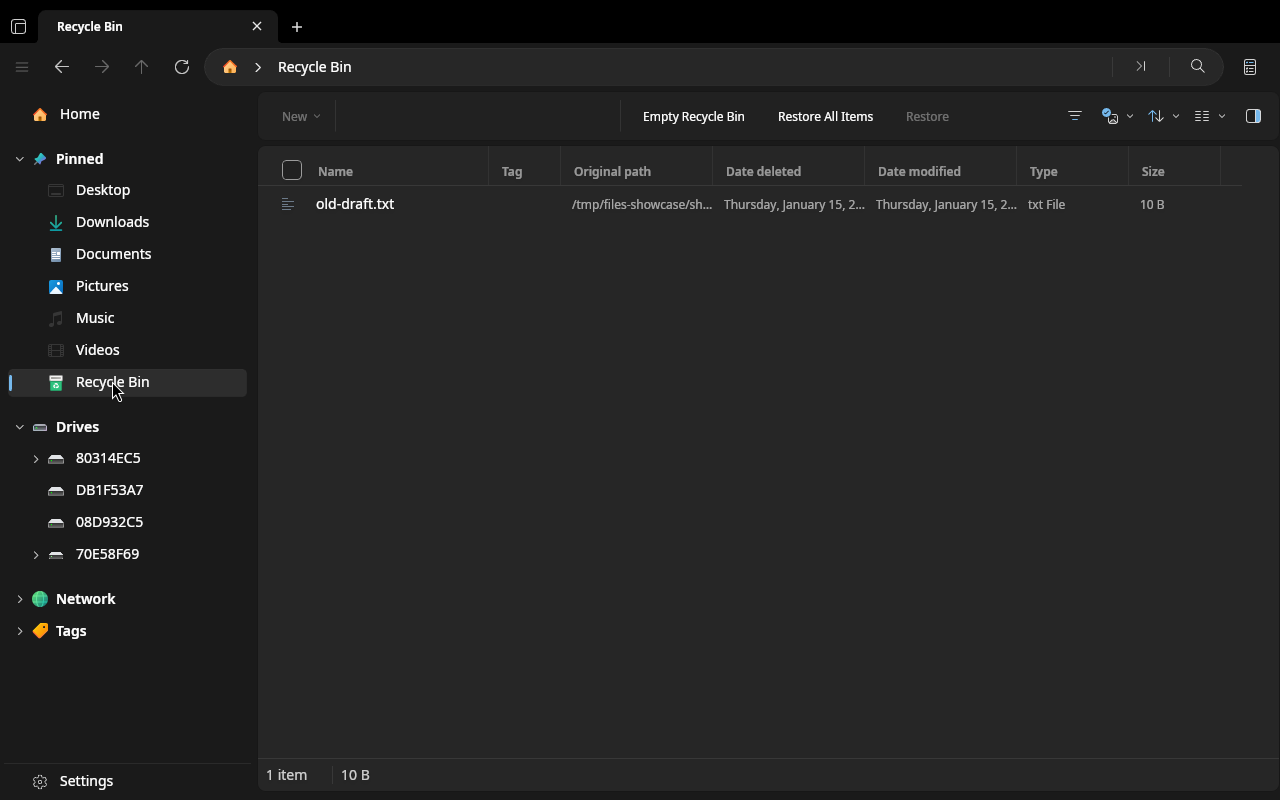
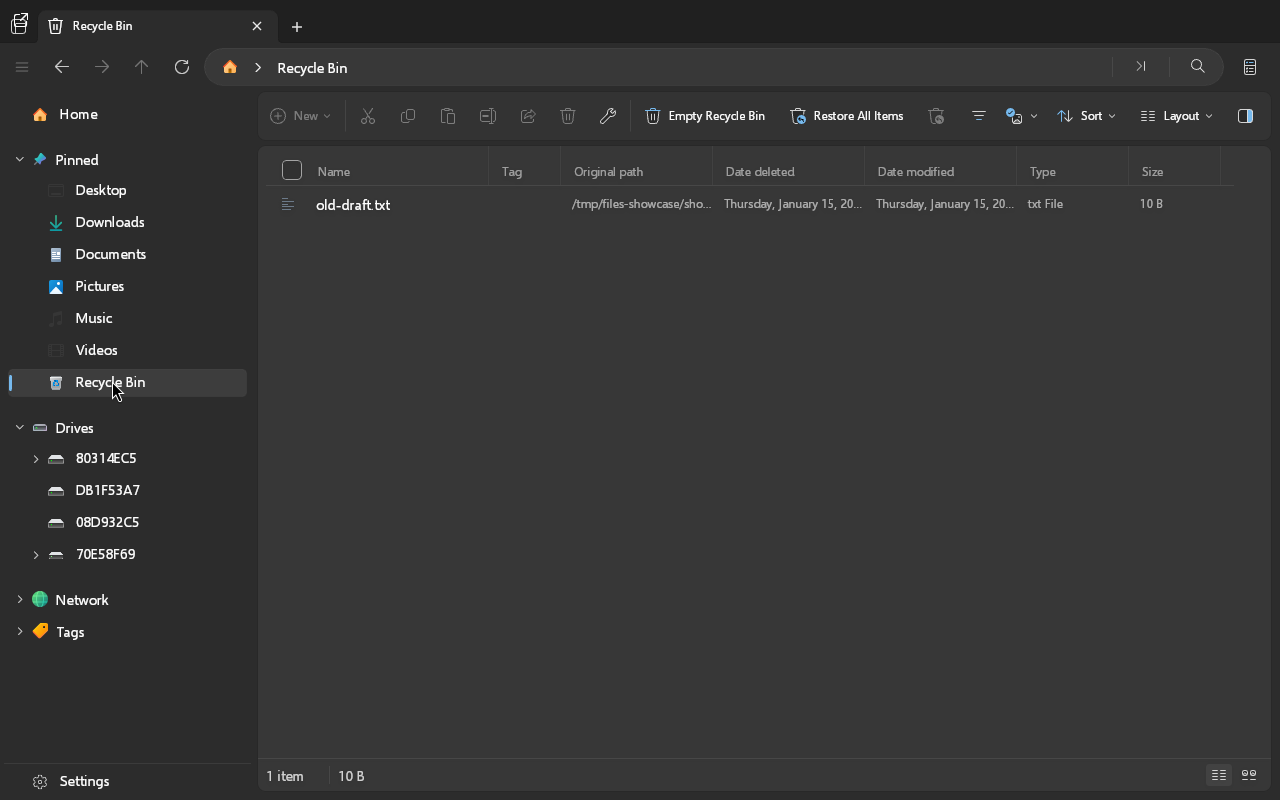
Refresh showcase screenshots and feature list
Claude-Session: https://claude.ai/code/session_01LeKXJc3DnK3PzAqwgA72NY

diff --git a/docs/linux-port/SHOWCASE.md b/docs/linux-port/SHOWCASE.md
@@ -5,7 +5,7 @@ home directory with synthetic drives (random labels, made-up sizes), so they nev
 
 The shots use the public "Win11" icon theme, selected the way the app does on a real desktop (kdeglobals `[Icons] Theme=`, GTK settings) inside the sandbox. The theme is copied into the sandbox only and is not part of this repository. Folder icons in the file lists render blank with this theme; the Home and sidebar icons come from it.
 
-Last updated: commit `8d4ccd67b`, 2026-10-05 (see `showcase/captured.txt` for the exact shot list).
+Last updated: commit `e1eaca8dc`, 2026-10-06 (see `showcase/captured.txt` for the exact shot list).
 
 ## What works today
 
@@ -24,6 +24,11 @@ Taken from the merged state of `main` and [PLAN.md](PLAN.md).
 - [x] Archive browsing (open a zip like a folder, with the Extract actions in the context menu)
 - [x] Grid layout virtualization (wrapping Cards grid instead of a single sideways row)
 - [x] Renamed to LinuxFiles
+- [x] Virtualized grouped views in the Grid, List and Cards layouts (Downloads grouping restored)
+- [x] KDE service menus under "Show more options"
+- [x] Root actions through a polkit-gated elevation helper
+- [x] Labelled Sort and Layout toolbar buttons
+- [x] HiDPI scaling from the desktop settings
 
 ## Not working yet
 
@@ -39,7 +44,7 @@ Home page: Quick access, and the Drives widget with usage bars. The drives are s
 
 ![Folder in Details layout](showcase/folder-details.png)
 
-A folder in Details layout.
+A folder in Details layout, with the labelled Sort and Layout toolbar buttons.
 
 ![Folder in Cards layout](showcase/folder-grid.png)
 
